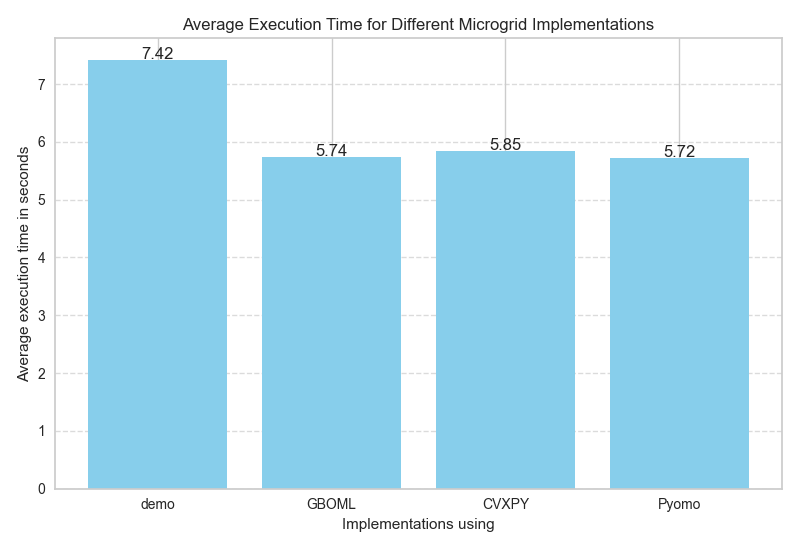
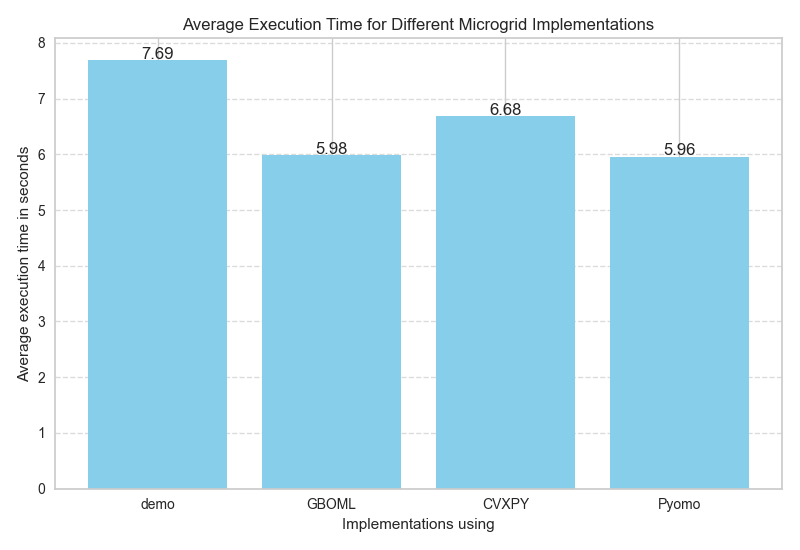
Minor fix.

diff --git a/examples/GBOML/gboml_microgrid_solution.py b/examples/GBOML/gboml_microgrid_solution.py
@@ -14,8 +14,8 @@ from examples.helpers.microgrid_setup import MicrogridSetup
 import examples.helpers.gboml_build_domain as gboml_domain
 from examples.helpers.file_writer import write
 
-def run(setup:MicrogridSetup, microgrid_file_path="examples/GBOML/microgrid_test.txt"):
-    gboml_domain.build_microgrid(setup=setup)
+def run(setup:MicrogridSetup, microgrid_file_path="examples/GBOML/microgrid.txt"):
+    gboml_domain.build_microgrid(setup=setup, file_path=microgrid_file_path)
 
     home_predicted_consumption = {}
     for _ in range(setup.no_homes):

diff --git a/examples/CVXPY/native_cvxpy_microgrid_solution.py b/examples/CVXPY/native_cvxpy_microgrid_solution.py
@@ -106,6 +106,7 @@ def solve_microgrid(setup:MicrogridSetup):
     prob.solve(solver=cp.CBC, verbose=False)
 
     stats = {
+        "implementation": "CVXPY",
         "solver": prob.solver_stats.solver_name,
         "parameters": sum(p.size for p in prob.parameters()),
         "constraints": len(prob.constraints),

diff --git a/benchmark/microgrid_benchmarks.py b/benchmark/microgrid_benchmarks.py
@@ -69,5 +69,5 @@ def measure_lines_of_code(folders):
         print("-"*100)
 
 if __name__ == "__main__":
-    # measure_execution_time()
-    measure_lines_of_code(folders=["GBOML", "Pyomo", "CVXPY"])
+    measure_execution_time()
+    # measure_lines_of_code(folders=["GBOML", "Pyomo", "CVXPY"])
